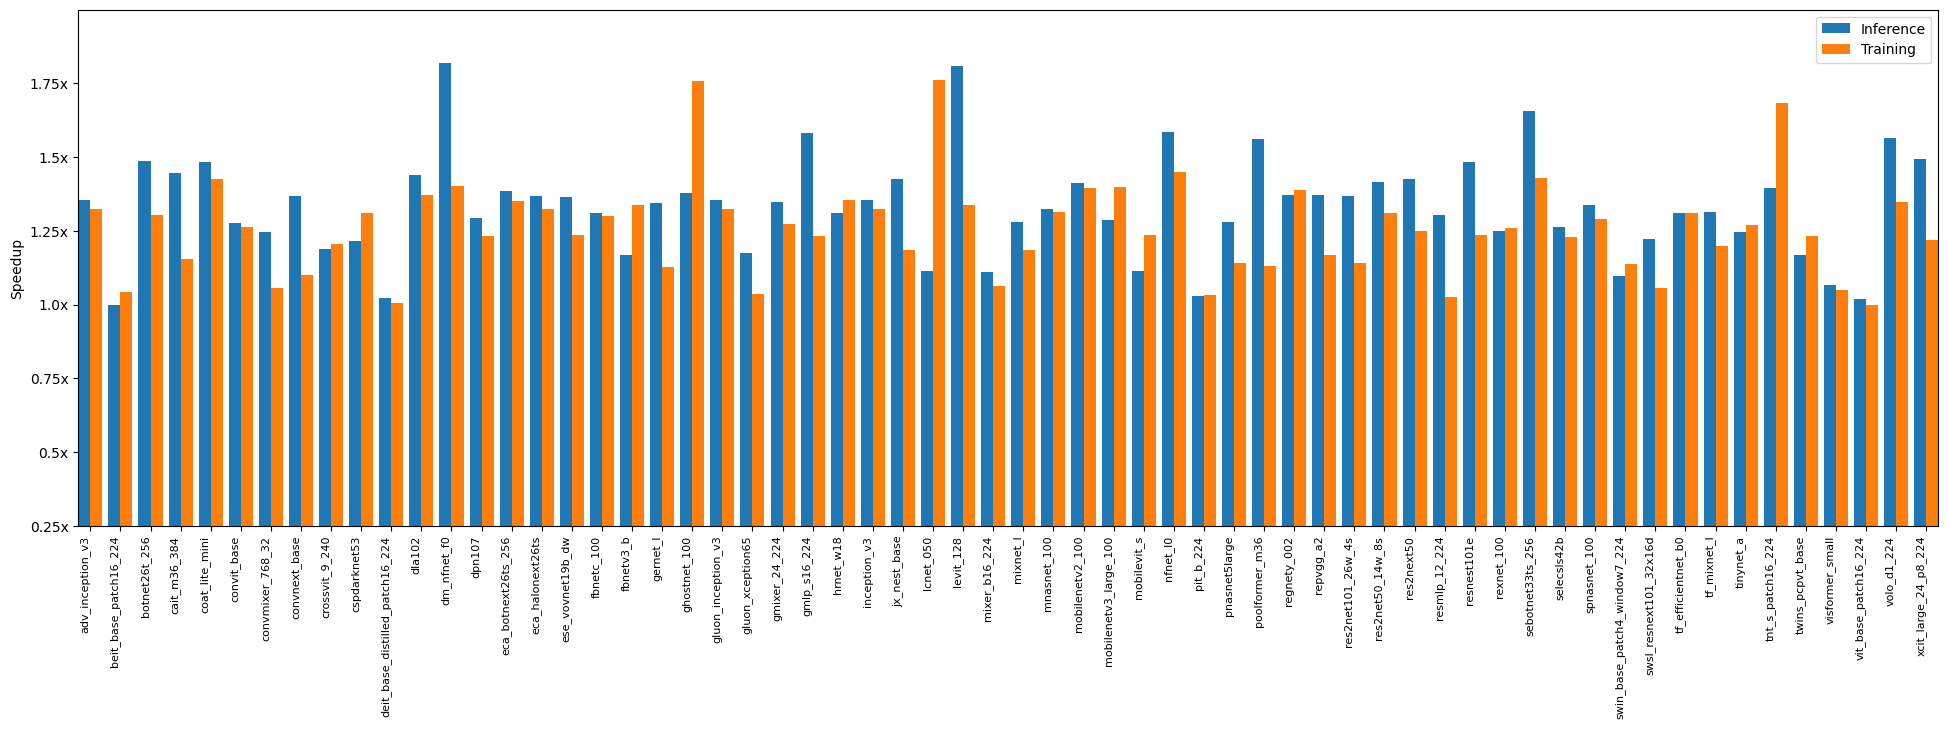
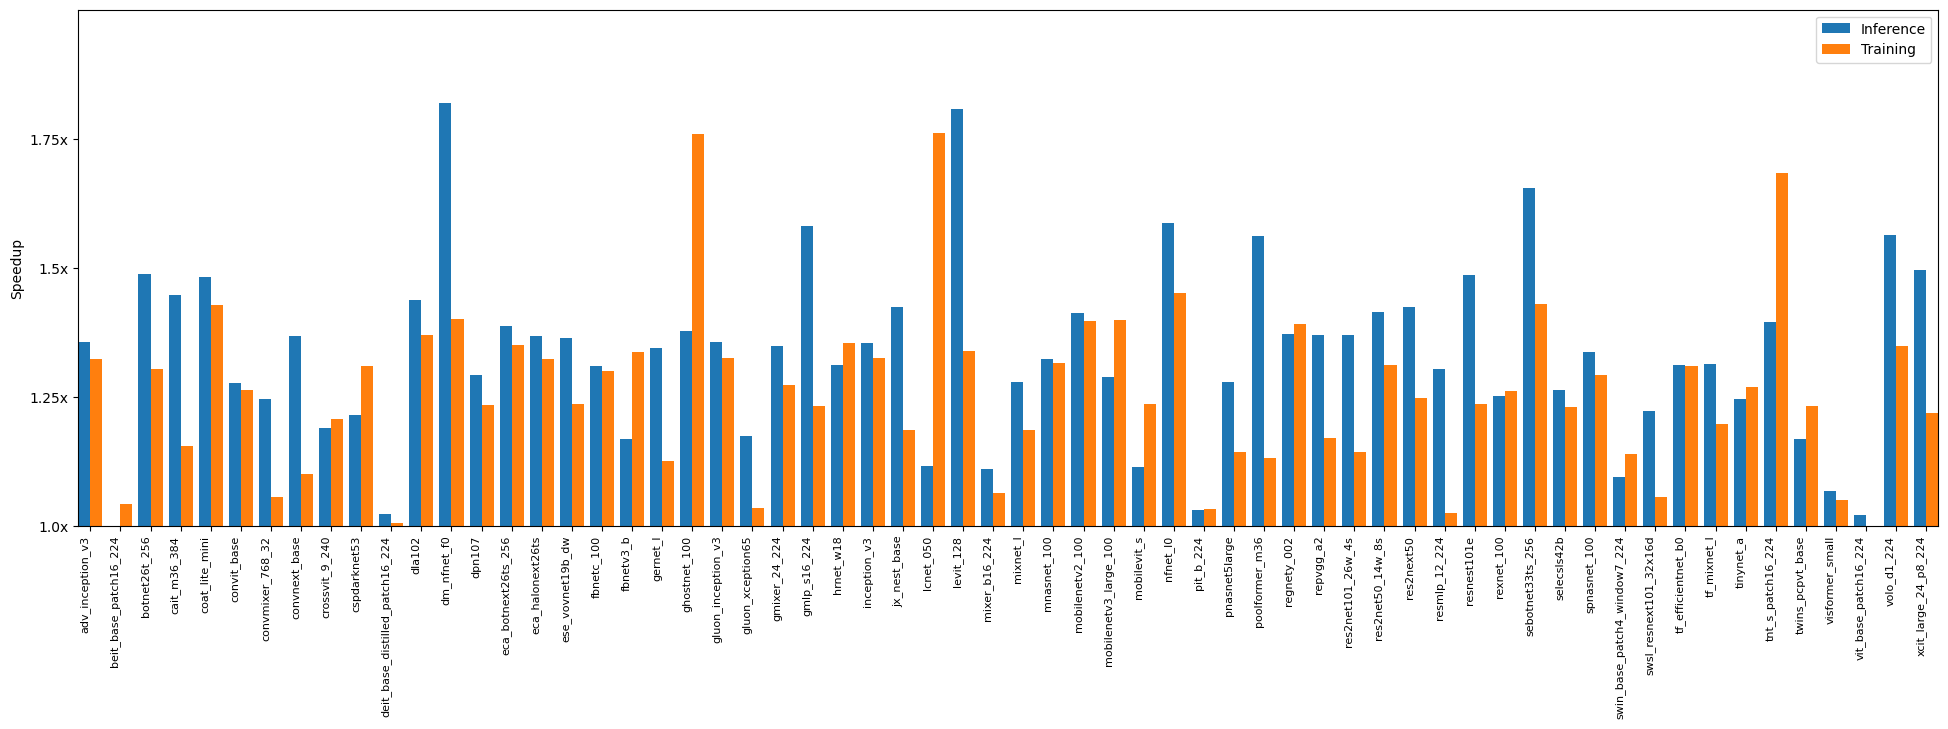
Fixes

diff --git a/data/graph.py b/data/graph.py
@@ -95,10 +95,21 @@ def graph_delta_merged(data1, data2, name1, name2, title):
 
     model_names = []
     for name in model_name_to_perf1.keys():
+        model_names.append(name)
+        performances1.append(model_name_to_perf1[name])
         if name in model_name_to_perf2:
-            model_names.append(name)
-            performances1.append(model_name_to_perf1[name])
             performances2.append(model_name_to_perf2[name])
+        else:
+            performances2.append(0)
+
+
+    for name in model_name_to_perf2.keys():
+        if name in model_names:
+            continue 
+        model_names.append(name)
+        performances1.append(0)
+        performances2.append(model_name_to_perf2[name])
+
 
 
     # Plot the performances for the two datasets
@@ -109,7 +120,7 @@ def graph_delta_merged(data1, data2, name1, name2, title):
     ax.bar(model_names, performances2, width=0.4, align='edge', label=name2)
     ax.margins(x=0)
     # ax.axhline(y=1, color='r', linestyle='--')
-    bottom = 1
+    bottom = 4
     top = math.ceil(max(max(performances2), max(performances1))) * 4
     ticks = []
     labels = []
@@ -117,7 +128,7 @@ def graph_delta_merged(data1, data2, name1, name2, title):
         ticks.append(i / 4)
         labels.append(f"{i / 4}x")
     
-    ax.set_ylim(bottom=float(bottom), top=top/4)
+    ax.set_ylim(bottom=1.0, top=top/4)
     ax.set_xticklabels(model_names, rotation=90, ha='right')
     ax.set_yticks(ticks, labels)
     ax.set_ylabel('Speedup')
